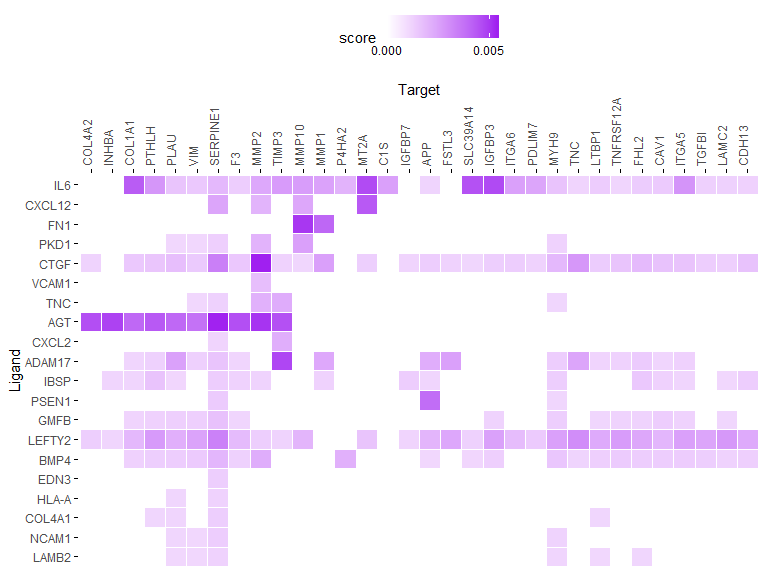
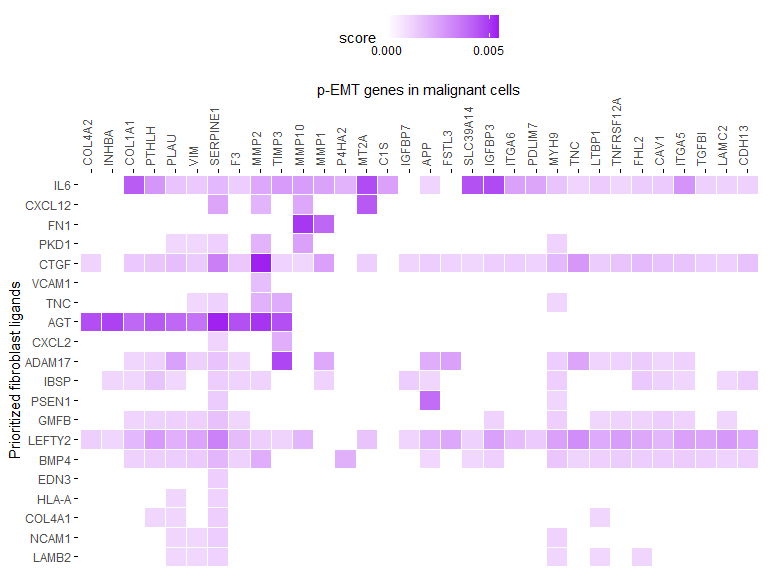
Include ligand-receptor network inference in main vignette

Changed region(s): [[0.4062, 0.125, 0.6875, 0.1875], [0.0, 0.4688, 0.0312, 0.8125]]

diff --git a/vignettes/ligand_activity_geneset.md b/vignettes/ligand_activity_geneset.md
@@ -42,8 +42,7 @@ cells can be downloaded from Zenodo.
 
 ``` r
 library(nichenetr)
-library(dplyr)
-library(ggplot2)
+library(tidyverse)
 ```
 
 ### Read in expression data of interacting cells
@@ -93,7 +92,7 @@ ligand_target_matrix[1:5,1:5] # target genes in rows, ligands in columns
 As gene set of interest, we consider the genes of which the expression
 is possibly affected due to communication with other cells.
 
-Because we here want to investigate how fibroblast regulate the
+Because we here want to investigate how fibroblasts regulate the
 expression of p-EMT genes in malignant cells, we will use the p-EMT gene
 set defined by Puram et al. as gene set of interset and use all genes
 expressed in malignant cells as background of
@@ -201,14 +200,50 @@ The putatively active ligand-target links will be visualized in a
 heatmap.
 
 ``` r
-p_ligand_target_network = active_ligand_target_links %>% t() %>% make_heatmap_ggplot("Ligand","Target", color = "purple",legend_position = "top", x_axis_position = "top") + scale_fill_gradient2(low = "whitesmoke",  high = "purple", breaks = c(0,0.005,0.01))
+p_ligand_target_network = active_ligand_target_links %>% t() %>% make_heatmap_ggplot("Prioritized fibroblast ligands","p-EMT genes in malignant cells", color = "purple",legend_position = "top", x_axis_position = "top") + scale_fill_gradient2(low = "whitesmoke",  high = "purple", breaks = c(0,0.005,0.01))
 
 p_ligand_target_network
 ```
 
 ![](ligand_activity_geneset_files/figure-gfm/unnamed-chunk-10-1.png)<!-- -->
 
-### Infer signaling paths beween ligand(s) and target(s) of interest
+### Show the predicted ligand-receptor interactions of the top-ranked ligands and visualize in a heatmap
+
+``` r
+# get the ligand-receptor network of the top-ranked ligands
+lr_network_top = lr_network %>% filter(from %in% best_upstream_ligands & to %in% expressed_receptors) %>% distinct(from,to)
+best_upstream_receptors = lr_network_top %>% pull(to) %>% unique()
+
+# get the weights of the ligand-receptor interactions as used in the NicheNet model
+weighted_networks = readRDS(url("https://zenodo.org/record/3260758/files/weighted_networks.rds"))
+lr_network_top_df = weighted_networks$lr_sig %>% filter(from %in% best_upstream_ligands & to %in% best_upstream_receptors)
+
+# convert to a matrix
+lr_network_top_df = lr_network_top_df %>% spread("from","weight",fill = 0)
+lr_network_top_matrix = lr_network_top_df %>% select(-to) %>% as.matrix() %>% magrittr::set_rownames(lr_network_top_df$to)
+
+# perform hierarchical clustering to order the ligands and receptors
+distoi = dist(lr_network_top_matrix, method = "binary")
+hclust_obj = hclust(distoi, method = "ward.D2")
+order_receptors = hclust_obj$labels[hclust_obj$order]
+
+distoi_targets = dist(lr_network_top_matrix %>% t(), method = "binary")
+hclust_obj = hclust(distoi_targets, method = "ward.D2")
+order_ligands_receptor = hclust_obj$labels[hclust_obj$order]
+```
+
+Show a heatmap of the ligand-receptor
+interactions
+
+``` r
+vis_ligand_receptor_network = lr_network_top_matrix[order_receptors, order_ligands_receptor]
+p_ligand_receptor_network = vis_ligand_receptor_network %>% t() %>% make_heatmap_ggplot("Prioritized fibroblast ligands","Receptors expressed by malignant cells", color = "mediumvioletred", x_axis_position = "top")
+p_ligand_receptor_network
+```
+
+![](ligand_activity_geneset_files/figure-gfm/unnamed-chunk-12-1.png)<!-- -->
+
+### Follow-up analyses
 
 As follow-up analysis, you can infer possible signaling paths between
 ligands and targets of interest. You can read how to do this in the
@@ -222,6 +257,12 @@ genes of the gene set can be predicted well. You can read how to do this
 in the following vignette [Assess how well top-ranked ligands can
 predict a gene set of
 interest](target_prediction_evaluation_geneset.md):`vignette("target_prediction_evaluation_geneset",
+package="nichenetr")`.
+
+In case you want to visualize ligand-target links between multiple
+interacting cells, you can make an appealing circos plot as shown in
+vignette [Circos plot visualization to show active ligand-target links
+between interacting cells](circos.md):`vignette("circos",
 package="nichenetr")`.
 
 ### References
